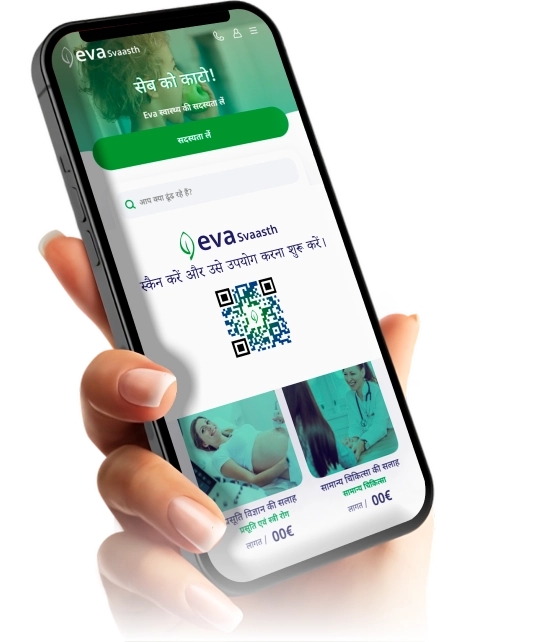
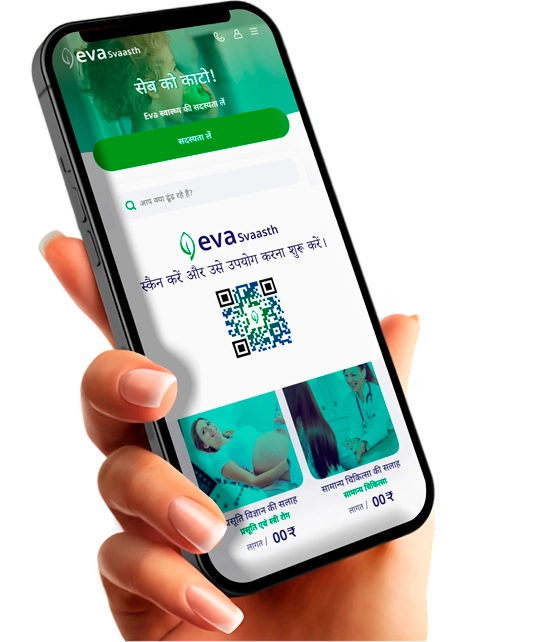
;

diff --git a/src/mocks/Pages/Home.js b/src/mocks/Pages/Home.js
@@ -1041,7 +1041,7 @@ export const BannerInformativeAnimalesText = {
 	},
 	ar: {
 		title: "اكتشف تخصصاتنا غير المدرجة!",
-		description: "رفاهية حيوانك الأليف هي الأهم بالنسبة لـ Eva Health، ولهذا السبب نقدم خصومات كبيرة في العيادات البيطرية والخدمات المقدمة لحيوانك الأليف.",
+		description: "رفاهية حيوانك الأليف هي الأهم بالنسبة لـ SehaHawae، ولهذا السبب نقدم خصومات كبيرة في العيادات البيطرية والخدمات المقدمة لحيوانك الأليف.",
 		button_text: 'مزيد من المعلومات'
 	},
 }
@@ -1097,7 +1097,7 @@ export const HireMessageText = {
 		button: 'Mais informações'
 	},
 	ar: {
-		title1: 'عند الاشتراك في Eva Salud',
+		title1: 'عند الاشتراك في SehaHawae',
 		title2: 'يمكنك الحصول على /*2 خطوط موبايل*/ مع مكالمات غير محدودة + 20 جيجابايت',
 		button: 'مزيد من المعلومات'
 	},

diff --git a/src/components/home/application/Application.jsx b/src/components/home/application/Application.jsx
@@ -7,16 +7,23 @@ export const Application = () => {
   const { language } = useLanguage();
   const content = AplicationText[language];
 
+  const getImg = () => {
+    switch (language) {
+      case 'hi':
+        return "phone_hindi.webp"
+    
+      default:
+        return "phone.webp"
+    }
+  }
+
   return (
     <>
       <div className={`${styles.Appsection} container`}>
-        <div className={styles.appImage}>
-          {/* <div className={styles.scanQR}>
-                    <img src="./images/application/logoBlue.png" className={styles.logo}/>
-                    <p>{content.qr_title}</p>
-                    <img src="./images/application/qr.png" className={styles.qr}/>
-                </div> */}
+
+        <div className={styles.appImage} style={{ backgroundImage: `url("/images/application/${getImg()}")` }}>
         </div>
+
         <div className={styles.appDescription}>
           <h2 data-aos='fade-right'>
             {processBoldText(content.title).map(({ type, content }, index) => {

diff --git a/src/components/home/cards/Card.jsx b/src/components/home/cards/Card.jsx
@@ -12,7 +12,20 @@ export const CardSmall = ({
   const { language } = useLanguage();
   const content = HeroText[language];
 
-  price = language === "hi" ? "00₹" : "00€";
+  const getPrice = () => {
+    if (language === "hi"){
+      return "00₹"
+    }
+    else if (language === "ar"){
+      return "00د.إ"
+    }
+    else {
+      return "00€"
+    }
+  }
+
+  price = getPrice()
+
 
   return (
     <div className={styles.freespecialties} data-aos="fade-down">

diff --git a/src/main.jsx b/src/main.jsx
@@ -8,7 +8,7 @@ ReactDOM.createRoot(document.getElementById("root")).render(
   <React.StrictMode>
     {/* styles arabe */}
     {/* <LanguageProvider initialLanguage="ar"> */}
-    <LanguageProvider initialLanguage="hi">
+    <LanguageProvider initialLanguage="es">
       <App />
     </LanguageProvider>
   </React.StrictMode>

diff --git a/src/mocks/General.js b/src/mocks/General.js
@@ -426,7 +426,7 @@ export const AtencionTelefonicaText = {
 		title: 'Consultor de Eva Saúde'
 	},
 	ar: {
-		title: 'مستشار Evasvaasth'
+		title: 'مستشار SehaHawae'
 	},
 }
 

diff --git a/src/components/home/application/Application.module.css b/src/components/home/application/Application.module.css
@@ -8,7 +8,6 @@
 }
 
 .appImage {
-  background: url("/images/application/phone_hindi.webp");
   background-repeat: no-repeat;
   background-size: contain;
   position: relative;
